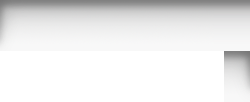
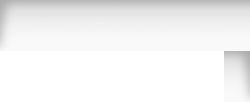
show more styles, new tabs and buttons

Changed region(s): [[0.0, 0.0, 1.0, 0.1471], [0.896, 0.5, 1.0, 0.6471]]

diff --git a/webapp/larryslist/website/static/less/search.less b/webapp/larryslist/website/static/less/search.less
@@ -38,8 +38,18 @@
   .show-more {
     display: block;
     text-align: left;
-    padding: 5px 35px 10px;
+    padding: 5px 0px 10px;
+    margin-left:22px;
     cursor: pointer;
+    .show-more-icon{
+      margin-left:-11px;
+      width:10px;
+      height:16px;
+      display: inline-block;
+      .background-image("../img/sprites.png");
+      background-position: -48px 3px;
+      background-repeat: no-repeat;
+    }
   }
   .type-ahead-field {
     padding: 0 11px 30px 10px;

diff --git a/webapp/larryslist/website/static/scripts/apps/templates/filtersection.html b/webapp/larryslist/website/static/scripts/apps/templates/filtersection.html
@@ -6,7 +6,7 @@
     <div class="section-body">
         <div class="filter-list"></div>
         {% if(hasTypeAhead){ %}
-        <a class="show-more">Show more</a>
+        <a class="show-more"><span class="show-more-icon"></span>Show more</a>
         <div class="type-ahead-field"><div class="search-field"><input type="text" class="input-fullwidth query" autocomplete="off"/></div></div>
         {% } %}
     </div>
